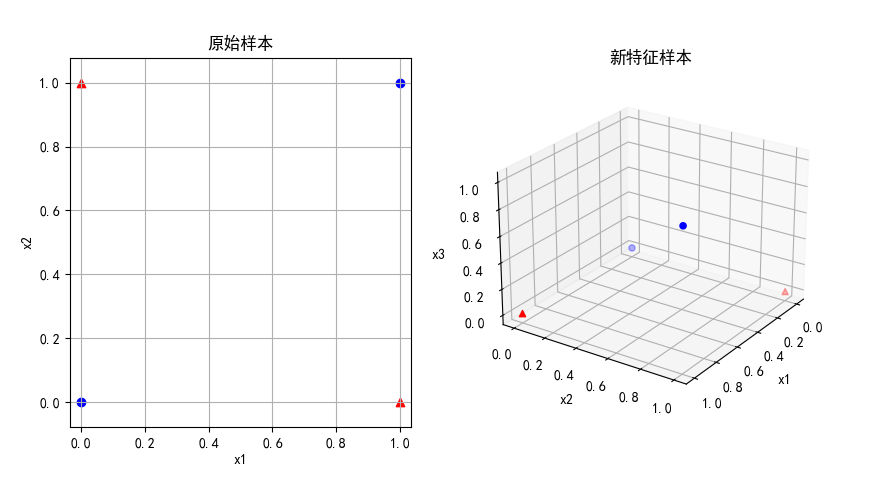
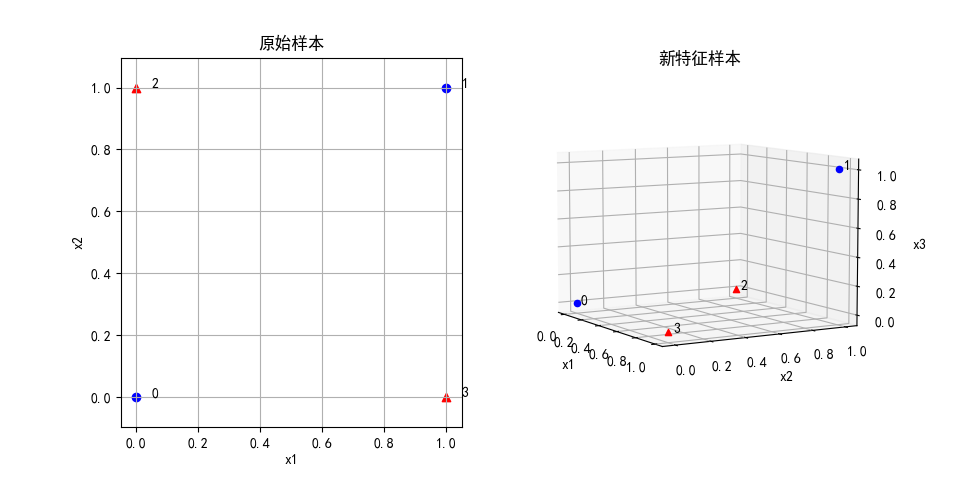
update

diff --git a/基础教程/A4-经典机器学习算法（更新中）/第5步 非线性分类算法/第12章 支持向量机的核函数/src/Code_12_1_1D.py b/基础教程/A4-经典机器学习算法（更新中）/第5步 非线性分类算法/第12章 支持向量机的核函数/src/Code_12_1_1D.py
@@ -5,6 +5,16 @@ import matplotlib.pyplot as plt
 from sklearn.svm import *
 import matplotlib as mpl
 
+# 绘图区基本设置
+def set_ax(ax, scope):
+    ax.axis('equal')
+    ax.grid()
+    ax.set_xlabel("x1")
+    ax.set_ylabel("x2")
+    if (scope is not None):
+        ax.set_xlim(scope[0][0], scope[0][1])
+        ax.set_ylim(scope[1][0], scope[1][1])
+
 # 线性SVM分类器
 def linear_svc(X,Y):
     model = SVC(C=3, kernel='linear')
@@ -28,12 +38,11 @@ def show_result(model, X_raw, X, Y):
 
     # 映射后的线性分类
     ax1 = fig.add_subplot(121)
-    ax1.grid()
     ax1.set_title(u"映射后的线性分类")
-    ax1.set_xlabel("x1")
-    ax1.set_ylabel("x2")
-    x1 = np.linspace(-2, 2, 100)
-    x2 = np.linspace(-1, 3, 100)
+    scope = ((-2,2,100),(-1,3,100))
+    set_ax(ax1, scope)
+    x1 = np.linspace(*scope[0])
+    x2 = np.linspace(*scope[1])
     X1,X2 = np.meshgrid(x1,x2)
     X12 = np.c_[X1.ravel(), X2.ravel()]
     pred = model.predict(X12)
@@ -45,12 +54,11 @@ def show_result(model, X_raw, X, Y):
 
     # 压缩回到原始坐标系的分类界线
     ax2 = fig.add_subplot(122)
-    ax2.grid()
     ax2.set_title(u"压缩回到原始坐标系的分类界线")
-    ax2.set_xlabel("x1")
-    ax2.set_ylabel("x2")
-    x1 = np.linspace(-2, 2, 100)
-    x2 = np.linspace(-1, 1, 100)
+    scope = ((-2,2,100),(-1,1,100))
+    set_ax(ax2, scope)
+    x1 = np.linspace(*scope[0])
+    x2 = np.linspace(*scope[1])
     X1,X2 = np.meshgrid(x1,x2)
     X12 = np.c_[X1.ravel(), X2.ravel()]
     # 把测试数据增加一维平方值特征
@@ -71,7 +79,7 @@ def show_samples(ax, X, Y):
             ax.scatter(X[i,0], X[i,1], marker='^', color='r')
         else:
             ax.scatter(X[i,0], X[i,1], marker='o', color='b')
-        ax.text(X[i,0]+0.1, 0.1, str(i))
+        ax.text(X[i,0]+0.1, X[i,1]+0.1, str(i))
 
 # 把数据从一维变换到二维(x2_new = x1*x1 + x2_origin)
 def transform(X_raw):

diff --git a/基础教程/A4-经典机器学习算法（更新中）/第5步 非线性分类算法/第12章 支持向量机的核函数/src/Code_12_2_Xor.py b/基础教程/A4-经典机器学习算法（更新中）/第5步 非线性分类算法/第12章 支持向量机的核函数/src/Code_12_2_Xor.py
@@ -22,18 +22,29 @@ def linear_svc(X,Y):
     return model
 
 
-def draw_3d(ax, x, y):
-    ax.scatter(x[y==1,0], x[y==1,1], x[y==1,2], marker='^', c='r')
-    ax.scatter(x[y==-1,0], x[y==-1,1], x[y==-1,2], marker='o', c='b')
+def show_samples_3d(ax, X, Y):
+    for i in range(Y.shape[0]):
+        if (Y[i] == 1):
+            ax.scatter(X[i,0], X[i,1], X[i,2], marker='^', color='r')
+        else:
+            ax.scatter(X[i,0], X[i,1], X[i,2], marker='o', color='b')
+
+        ax.text(X[i,0]+0.05, X[i,1], X[i,2], str(i))
+
     ax.set_xlabel("x1")
     ax.set_ylabel("x2")
     ax.set_zlabel("x3")
 
-def draw_2d(ax, x, y):
-    ax.scatter(x[y==1,0], x[y==1,1], marker='^', c='r')
-    ax.scatter(x[y==-1,0], x[y==-1,1], marker='o', c='b')
+def show_samples(ax, X, Y):
     ax.set_xlabel("x1")
     ax.set_ylabel("x2")
+
+    for i in range(Y.shape[0]):
+        if (Y[i] == 1):
+            ax.scatter(X[i,0], X[i,1], marker='^', color='r')
+        else:
+            ax.scatter(X[i,0], X[i,1], marker='o', color='b')
+        ax.text(X[i,0]+0.05, X[i,1], str(i))
 
 if __name__=="__main__":
 
@@ -53,11 +64,11 @@ if __name__=="__main__":
     ax1.axis('equal')
     ax1.grid()
     ax1.set_title(u'原始样本')
-    draw_2d(ax1, X, Y)
+    show_samples(ax1, X, Y)
 
     ax2 = fig.add_subplot(122, projection='3d')
     ax2.set_title(u'新特征样本')
-    draw_3d(ax2, X, Y)
+    show_samples_3d(ax2, X, Y)
     plt.show()
 
     model = linear_svc(X, Y)

diff --git a/基础教程/A4-经典机器学习算法（更新中）/第5步 非线性分类算法/第12章 支持向量机的核函数/12.2 解决二维非线性问题.md b/基础教程/A4-经典机器学习算法（更新中）/第5步 非线性分类算法/第12章 支持向量机的核函数/12.2 解决二维非线性问题.md
@@ -9,10 +9,10 @@
     X_raw = np.array([[0,0],[1,1],[0,1],[1,0]])
     Y = np.array([-1,-1,1,1])
 ```
-我们给原始样本的第三例增加一维新特征，特征映射函数是：
+按照 12.1 节中的经验，我们给原始样本的第三例增加一维新特征，特征映射函数是：
 
 $$
-f(z)=[z_1, \ z_2, \ z_1 z_2] \tag{12.2.1}
+\phi(z)=[z_1, \ z_2, \ z_1 z_2] \tag{12.2.1}
 $$
 
 即 $x_3=x_1 x_2$，代码如下：
@@ -73,7 +73,7 @@ def linear_svc(X,Y):
 ```
 判别结果和原始样本的标签值一致，分类正确。
 
-以上结果请运行代码 Code_12_2_Xor.py 得到。
+> 以上结果请运行代码 Code_12_2_Xor.py 得到。
 
 ### 12.2.2 双圆形问题
 
@@ -116,7 +116,7 @@ def draw_2d(ax, x, y):
     ax.set_ylabel("x2")
 ```
 
-后面几行代码绘制正类样本为红色三角，负类样本为蓝色圆点。这里吐槽一下 sklearn 的函数，把 inner（内圆） 样本作为正类，而把 outer（外圆）样本作为负类，这样会造成“负类样本大于正类样本”的假象，不利于读者理解。
+后面几行代码绘制正类样本为红色三角，负类样本为蓝色圆点。这里 sklearn 的函数把 inner（内圆） 样本作为正类，而把 outer（外圆）样本作为负类，这样会造成“负类样本大于正类样本”的假象，不利于读者理解。
 
 最后画出图 12.2.2 的左子图。
 
@@ -138,7 +138,7 @@ $$
 
 3. 增加二次项新特征
 
-在 11.4 小节中，我们学习了升维的方法，在本例中是否能够同样适用呢？
+在 12.1 节中，我们学习了升维的方法，在本例中是否能够同样适用呢？
 
 下面做第二个试验，给样本增加一个维度：$x_{3} = x_{1}^2 + x_{2}^2$，映射函数是：
 
@@ -146,7 +146,6 @@ $$
 \phi(z) = [z_1, \ z_2, \ z_1^2+z_2^2] \tag{12.2.2}
 $$
 
-于是得到了表 11.4.2 的最后一列特征值。
 
 代码如下，计算前两个特征值的平方和得到 $x_{3}$，然后加到原有的 $x$ 矩阵的最后一列，得到 $X$：
 
@@ -158,7 +157,7 @@ $$
     X_3d[:,2] = X_raw[:,0]**2 + X_raw[:,1]**2
 ```
 
-然后在三维坐标系中绘制新的样本分布，调整观察角度后得到图 11.4.2 的右子图：
+然后在三维坐标系中绘制新的样本分布，调整观察角度后得到图 12.2.2 的右子图：
 
 - 从顶面观察样本分布，和原始分布相同，因为此时第三维特征不起作用。
 - 从侧向观察样本分布，可以看到在正负类样本点之间有一个明显的线性分隔带。
@@ -169,6 +168,5 @@ $$
 
 ### 思考和练习
 
-1. 请使用线性 SVM 分类器分别对图 12.2.2 的中子图和右子图的新特征样本数据做线性二分类，并绘制出分类结果（区域、分类间隔）。
-2. 请可视化如果 $f(z)=[z_1^2, \ z_2^2, \ z_1^2 + z_2^2]$ 时，在三维空间中的样本分布情况。
-3. 请可视化如果 $f(z)=[z_1^2,\ z_1 z_2,  \ z_2^2]$ 时，在三维空间中的样本分布情况。
+1. 请使用线性 SVM 分类器分别对图 12.2.2 的中子图和右子图的新特征样本数据做线性二分类，并绘制出分类结果（分类区域、分类间隔）。
+2. 请可视化 $\phi(z)=[z_1^2,\ z_1 z_2,  \ z_2^2]$ 时，在三维空间中的样本分布情况。

diff --git a/基础教程/A4-经典机器学习算法（更新中）/第5步 非线性分类算法/第12章 支持向量机的核函数/12.1 解决一维非线性问题.md b/基础教程/A4-经典机器学习算法（更新中）/第5步 非线性分类算法/第12章 支持向量机的核函数/12.1 解决一维非线性问题.md
@@ -13,7 +13,7 @@
 
 ### 12.1.2 增加一维新特征
 
-但是，如同前面学习的多项式回归一样，如果令 $x_{2}=x_{1}^2$，则可以得到表 12.1.1 中的数据，也就是说，把一维的特征无形中增加了一维，变成二维的了。
+但是，如同前面学习的多项式回归一样，如果令 $x_{2}=x_{1}^2$，则可以得到表 12.1.1 中的数据，也就是说，把一维的特征增加了一维，变成二维的了。
 
 表 12.1.1 增加了一维特征后的样本数据
 
@@ -30,7 +30,7 @@
 上述的过程叫做**映射**，可以定义映射函数为：
 
 $$
-f(z)=[z,\ z^2] \tag{12.1.1}
+\phi(z)=[z,\ z^2] \tag{12.1.1}
 $$
 
 映射函数包含了两个步骤：
@@ -39,11 +39,13 @@ $$
 
 请读者注意区分**特征**与**特征值**的含义，**特征**是包含了一组**特征值**的向量。
 
-把表 12.1.1 的新生成的样本数据绘制到图 12.1.1 的右图，得到一条抛物线，可以明显看出用一条红色的水平虚线就能够轻松地分开两类样本点。
+把表 12.1.1 的新生成的样本数据绘制到图 12.1.1 的中图，得到一条抛物线，可以明显看出用一条红色的水平虚线就能够轻松地分开两类样本点。
+
+其实，即使不使用二维特征，而只是把 $x^2$ 作为唯一的特征，也已经可以分开两类样本点了，如图 12.1.1 右子图所示，相当于把位于左半侧的样本折叠到右半侧。
 
 ### 12.1.3 代码验证
 
-为此我们可以做一个简单的试验，完整的代码在 Code_11_4_1_OneDimesion.py 中。
+为此我们可以做一个简单代码验证。
 
 先定义原始数据：
 
@@ -51,7 +53,9 @@ $$
     X_raw = np.array([[-1.5,0], [-1,0], [-0.5,0], [0,0], [0.5,0], [1,0], [1.5,0]])
     Y = np.array([-1,-1,1,1,1,-1,-1])
 ```
-注意，原始数据 X 中，第二维的数据全都是 0，相当于是一维数据。现在把数据从一维变换到二维：
+注意，原始数据 X 中，第二维的数据全都是 0，相当于是一维数据，这样便于在二维坐标系中绘图。
+
+现在把数据从一维变换到二维：
 
 ```python
 # 把数据从一维变换到二维(x2_new = x1*x1 + x2_origin)
@@ -84,9 +88,10 @@ def linear_svc(X,Y):
 
 在有些资料中，作者凭着想象把图 12.1.2 右子图的分界线的画成开口向上的曲线，请读者注意，这是不正确的。
 
-以上结果请运行代码 Code_12_1_1D.py 得到。
+
+> 以上结果请运行代码 Code_12_1_1D.py 得到。
 
 ### 思考和练习
 
-1. 请通过编程绘制出图 12.1.2 中左图的分类间隔。
-2. 完成 1 后，请把分类间隔的上下间隔界线绘制在图 12.1.2 的右图中。
+1. 使用 12.1.2 小节中提到的折叠法，把平方后的一维样本传递给线性 SVM 函数进行分类，并绘图观察其效果。
+

diff --git a/基础教程/A4-经典机器学习算法（更新中）/第5步 非线性分类算法/第12章 支持向量机的核函数/12.4 多项式核函数.md b/基础教程/A4-经典机器学习算法（更新中）/第5步 非线性分类算法/第12章 支持向量机的核函数/12.4 多项式核函数.md
@@ -34,7 +34,7 @@ $$
 \phi(z)=[z,\ z^2] \tag{12.4.3}
 $$
 
-那么下面就可以验证一下当 d=2,3 两种情况时，式 12.4.2 展开为映射函数时，是否与式 12.4.3 一致。注意在本例中是一维特征，所以 $\boldsymbol{x}$ 展开后只有 $x_1$ 项，而不是 $x_1,x_2$ 等等。
+那么下面就可以验证一下当 d=2,3 两种情况时，式 12.4.2 展开为映射函数后，是否与式 12.4.3 一致。注意在本例中是一维特征，所以 $\boldsymbol{x}$ 展开后只有 $x_1$ 项，而不是 $x_1,x_2$ 等等。
 
 - d=2 时
 
@@ -76,13 +76,13 @@ $$
 
 $z^2$ 项在上面的试验中起到了重要作用，因为经过平方运算后，把负号变成了正号。
 
-以上结果请运行代码 Code_12_4_Poly_1D.py 得到。
+> 以上结果请运行代码 Code_12_4_Poly_1D.py 得到。
 
 ### 11.4.2 正确使用多项式核函数
 
 问题来了：多项式核函数有这么弱吗？我们是不是忽略了什么细节？
 
-根据式 12.4.1，里面的参数 $r$ 并没有体现出来；仔细看 SVC 函数的文档，会发现有一个 coef0 参数，解释得比较含糊：
+根据式 12.4.1，里面的参数 $r$ 并没有体现出来。仔细看 SVC 函数的文档，会发现有一个 coef0 参数，解释得比较含糊：
 ```
     coef0 : float, default=0.0
         Independent term in kernel function.
@@ -190,7 +190,7 @@ def mapping(X_raw):
 3. 算法不会被无效的特征干扰。
 4. 同时放大或缩小所有样本的同一特征值没用。
 
-以上结果请运行代码 Code_12_4_Poly_1D_Mapping.py 得到。
+> 以上结果请运行代码 Code_12_4_Poly_1D_Mapping.py 得到。
 
 ### 12.4.3 验证二维非线性问题
 
@@ -250,7 +250,7 @@ $$
 
 式 12.3.13 中，含有 $z_1z_2, z_1^2, z_2^2$ 等项，可以形成有效的特征值，其它特征项可以忽略。
 
-以上结果请运行代码 Code_12_4_Poly_Circle.py 得到。
+> 以上结果请运行代码 Code_12_4_Poly_Circle.py 得到。
 
 ### 12.4.4 验证多项式次数对分类结果的影响
 
@@ -281,7 +281,7 @@ time= 0.10648965835571289
 
 最上面的二次多项式用时 0.09 秒，最下面的九次多项式用时 0.1 秒，相差不多，这就是核函数的威力，虽然九次比二次多了很多，但是对于计算机来说，计算式 12.4.1 的核函数并无很大差别，因为不需要做特征映射，不会增加很多特征项。
 
-以上结果请运行代码 Code_12_4_Poly_Moon.py 得到。
+> 以上结果请运行代码 Code_12_4_Poly_Moon.py 得到。
 
 ### 思考与练习
 

diff --git a/基础教程/A4-经典机器学习算法（更新中）/第5步 非线性分类算法/第12章 支持向量机的核函数/12.8 高斯核函数的理解.md b/基础教程/A4-经典机器学习算法（更新中）/第5步 非线性分类算法/第12章 支持向量机的核函数/12.8 高斯核函数的理解.md
@@ -105,7 +105,7 @@ $$
 
 绘制可视化分类结果如图 12.8.2 的右子图所示，可以看到最关键的 0 号样本和 5 号样本，都处于正确的分类区中。本图中的样本是经过标准化的，所以坐标范围与图 12.8.1 不同。
 
-以上结果请运行 Code_12_8_Moon_Landmark.py 得到。
+> 以上结果请运行 Code_12_8_Moon_Landmark.py 得到。
 
 ### 12.8.2 使用高斯核函数
 
@@ -143,7 +143,7 @@ def rbf_svc(X, Y, C, gamma):
 
 左子图是原始样本点为中心的高斯函数，其中 0、5 号“深入敌后”，势力范围与异类交织在一起；右子图是分类结果，与图 12.8.2 的结果相比较，除了分辨率不同，没有本质上的区别。
 
-以上结果请运行 Code_12_8_Moon_Rbf.py 得到。
+> 以上结果请运行 Code_12_8_Moon_Rbf.py 得到。
 
 ### 12.8.3 Gamma 参数的影响
 
@@ -219,7 +219,7 @@ X, Y = make_moons(n_samples=n_samples, noise=0.3, shuffle=False)
 3. 作为径向基（Radial Basis Function）核，对于样本噪音有较好的抗干扰能力
 4. 具体对于C（惩罚系数）：C越大，越容易过拟合，当然这是 SVM 算法中的通用特性。
 
-以上结果请运行 Code_12_8_Moon_Rbf_Gamma.py 得到。
+> 以上结果请运行 Code_12_8_Moon_Rbf_Gamma.py 得到。
 
 ### 12.8.4 预测方法
 
@@ -268,13 +268,13 @@ gamma = 1
 
 $$
 \begin{aligned}
-f(x_0)&=sign((-1·e^{-[0.514^2+(-0.529)^2]})+(-1·e^{-[0.181^2+1.087^2]})+(-0.454·e^{-[(-0.563)^2+1.588^2]})
+f(x_0)&=sign \big [(-1·e^{-[0.514^2+(-0.529)^2]})+(-1·e^{-[0.181^2+1.087^2]})+(-0.454·e^{-[(-0.563)^2+1.588^2]})
 \\\\
 &+(-1·e^{-[(-1.125)^2+1.01^2]})+(-1·e^{-[(-1.729)^2+(-0.849)^2]})
 \\\\
 &+(1·e^{-[(-0.575)^2+0.556)2]})+(1·e^{-[(-0.249)^2+(-0.845)^2]})+(0.655·e^{-[0.621^2+(-1.569)^2]})
 \\\\
-&+(0.897·e^{-[1.306^2+(-0.813)^2]})+(0.903·e^{-[1.63^2+0.364^2]})+0.0790
+&+(0.897·e^{-[1.306^2+(-0.813)^2]})+(0.903·e^{-[1.63^2+0.364^2]})+0.0790 \big ]
 \\\\
 &=sign(-0.5804-0.2969-0.0265-0.1017-0.0245+0.5274+0.4602+0.0380+0.0841+0.0555+0.0790)
 \\\\
@@ -330,7 +330,7 @@ gamma=10
 ```
 当 gamma=5 时，$x_0$ 点属于正类；当 gamma=10 时，$x_0$ 点属于负类。实际的数值计算结果在小数点后第三位才能体现出来，越是靠近分类边界的点，这种情况越明显（数值会越小，并且随着 gamma 值的变化会在 0 左右漂移）。
 
-以上结果请运行 Code_12_8_Moon_Rbf_Inference.py 得到。
+> 以上结果请运行 Code_12_8_Moon_Rbf_Inference.py 得到。
 
 ### 思考和练习
 

diff --git a/基础教程/A4-经典机器学习算法（更新中）/第5步 非线性分类算法/第12章 支持向量机的核函数/12.5 高斯核函数.md b/基础教程/A4-经典机器学习算法（更新中）/第5步 非线性分类算法/第12章 支持向量机的核函数/12.5 高斯核函数.md
@@ -3,6 +3,8 @@
 
 ### 12.5.1 高斯核函数
 
+高斯核函数的定义：
+
 $$
 K(\boldsymbol{x}_i,\boldsymbol{x}_j)=e^{-\frac{\parallel \boldsymbol{x}_i-\boldsymbol{x}_j \parallel^2}{2 \sigma^2}}=\exp(-\frac{\parallel \boldsymbol{x}_i-\boldsymbol{x}_j \parallel^2}{2 \sigma^2})
 \tag{12.5.1}
@@ -139,7 +141,9 @@ X 不做标准化直接做映射的特征值：
 
 从上面映射后的结果可以看到，映射函数把后两个正类样本映射到了一个点上，这是因为 [0,1] 和 [1,0] 这两个样本，经过映射后的值恰巧相同。这只是一种巧合，算法是不能依赖样本在数值上的特性来工作的。
 
-所以，我们可以得出结论：**高斯核函数的映射函数只是一种理论解释，而不是实际的算法工作原理。**
+这让笔者想起了当年对感知机理论的质疑：**感知机不能解决简单的异或问题。** 并由此使得对神经网络的进一步研究工作搁置了很多年。难度高斯核函数不能解决异或问题吗？
+
+在此，我们先得出一个初步结论：**高斯核函数的映射函数只是一种理论解释，而不是实际的算法工作原理。** 高斯核函数的真正工作原理在下一小节中学习。
 
 
 ### 思考与练习

diff --git a/基础教程/A4-经典机器学习算法（更新中）/第5步 非线性分类算法/第12章 支持向量机的核函数/12.6 高斯函数的内积.md b/基础教程/A4-经典机器学习算法（更新中）/第5步 非线性分类算法/第12章 支持向量机的核函数/12.6 高斯函数的内积.md
@@ -129,7 +129,7 @@ def integrate_fab():
 ```
 其中，0.0297（保留4位小数）是积分结果，后面的数值是误差，与直接计算 12.6.7 相等。这说明式 12.6.7 的推导结果是正确的。
 
-以上结果请运行 Code_12_6_Gaussian.py 得到。
+> 以上结果请运行 Code_12_6_Gaussian.py 得到。
 
 ### 12.6.3 二维高斯函数的内积
 
@@ -208,7 +208,7 @@ $$
 
 这就真正理解了高斯核函数的含义：**把 $x_i$ 看作是以样本 $x_i$ 为中心的高斯函数，把 $x_j$ 看作是以样本 $x_j$ 为中心的高斯函数，则 $e^{-\gamma||\boldsymbol{x}_i-\boldsymbol{x}_j||^2}$ 就是两个样本的高斯函数的内积。** 对一维、二维或更高维的高斯函数都是如此。
 
-以上结果请运行 Code_12_6_Gaussian.py 得到。
+> 以上结果请运行 Code_12_6_Gaussian.py 得到。
 
 ### 思考和练习
 
